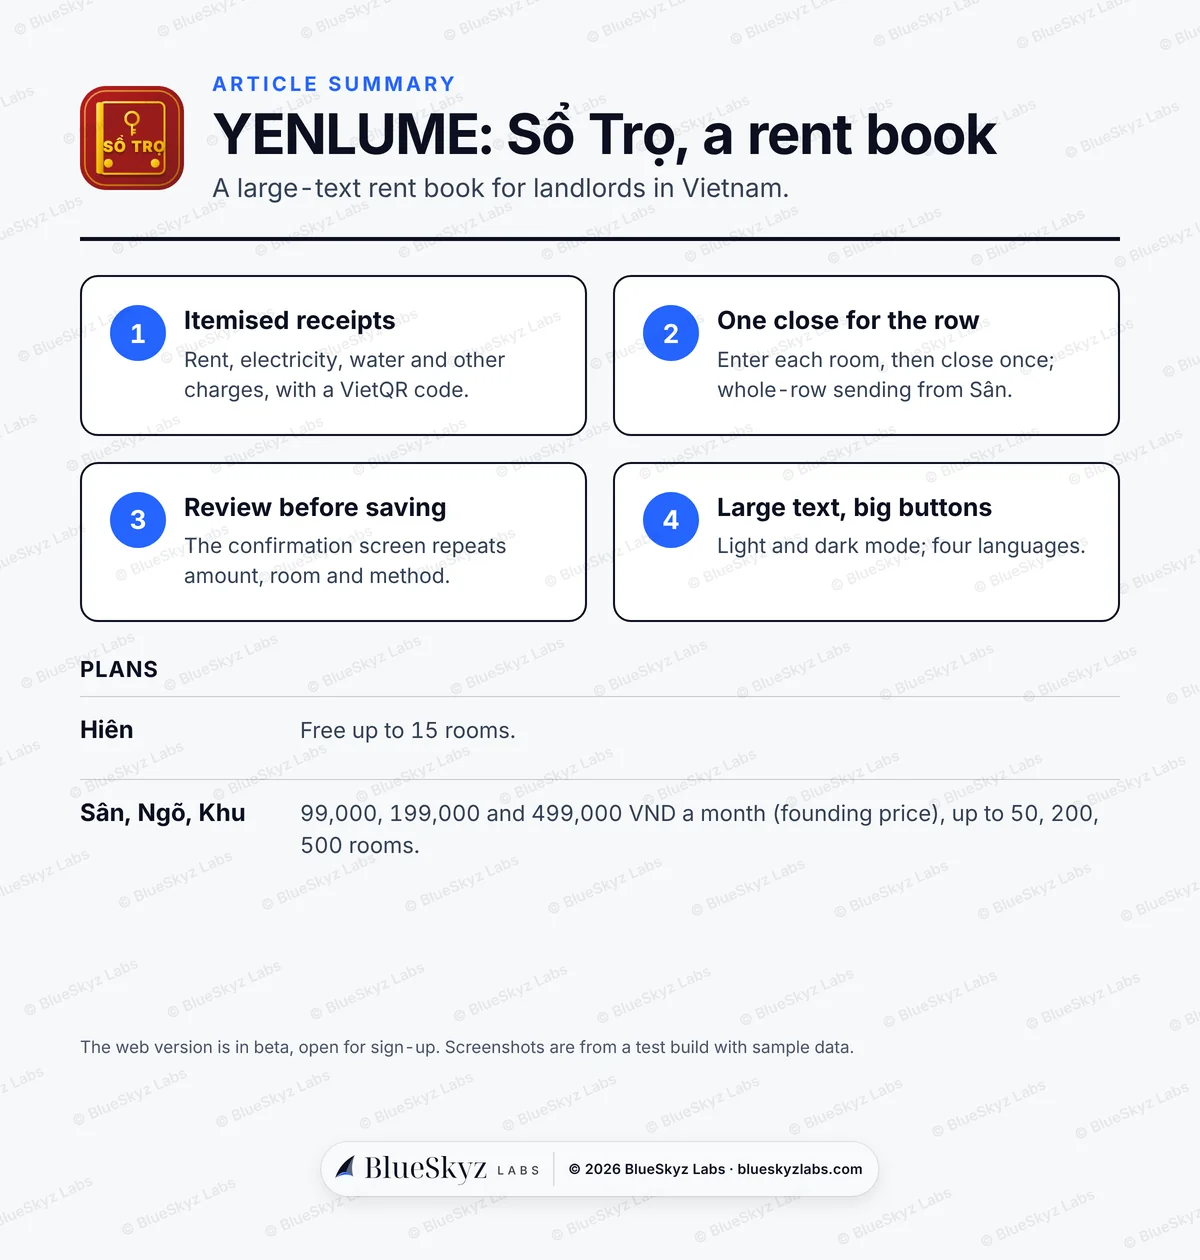
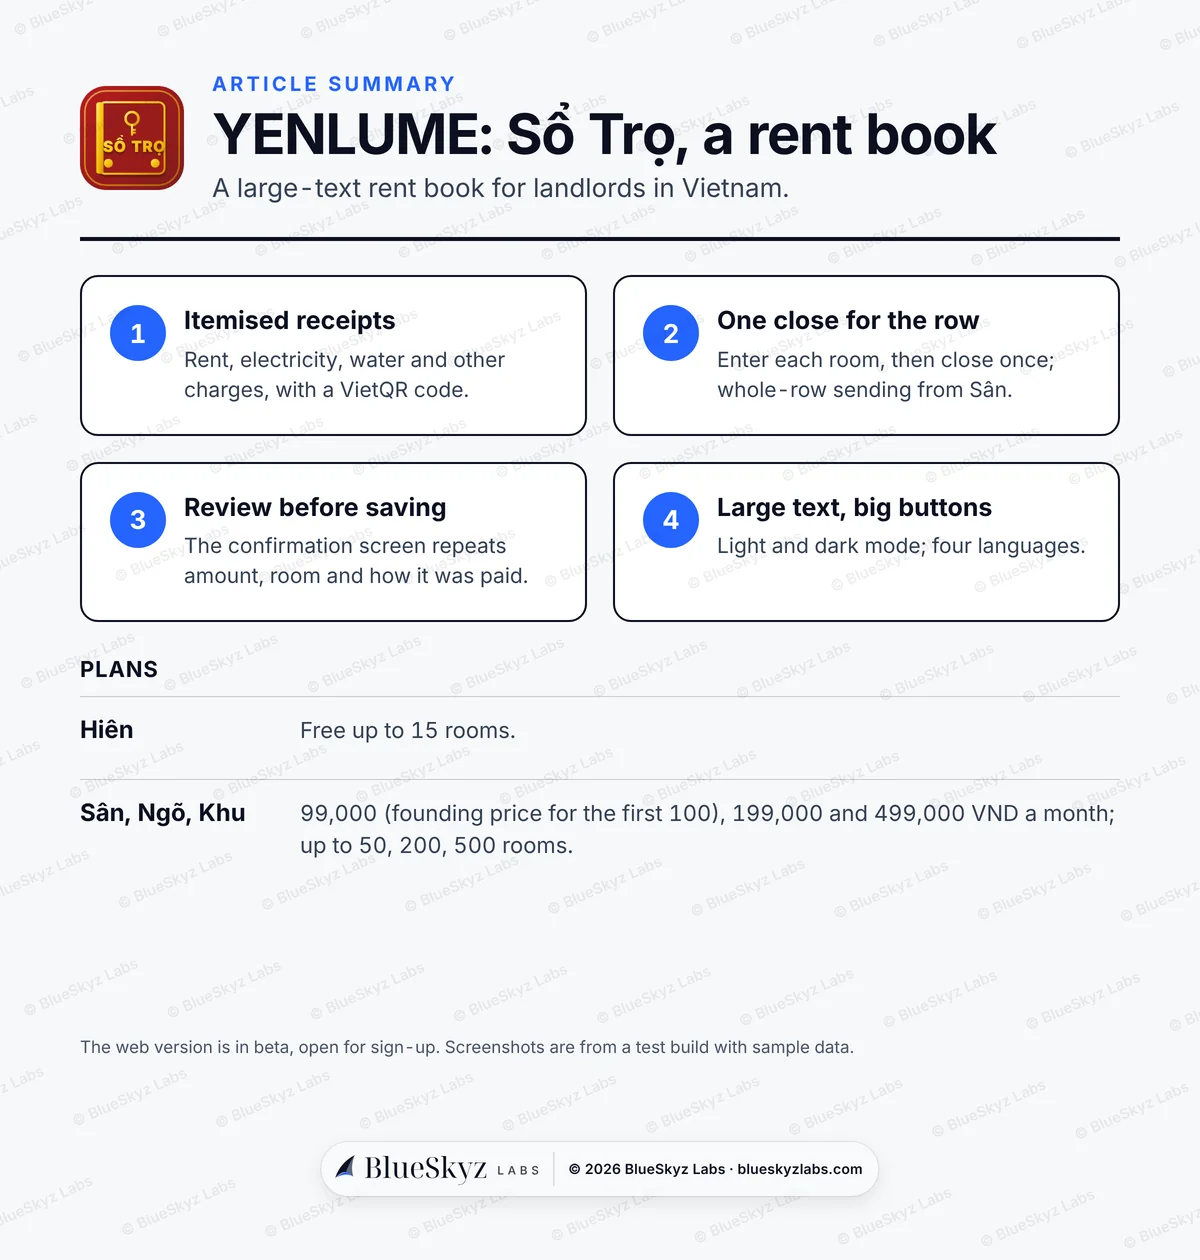
fix(content): founding price is Sân only (first 100, list 149k); drop video line; en/vi parity
Addresses copy review gtm/07 must-fix 1-3 and nits 4-7.

Claude-Session: https://claude.ai/code/session_01DLzXyRDgZUGGaX11hg71Fk

Changed region(s): [[0.2467, 0.619, 0.925, 0.681], [0.3083, 0.4333, 0.4317, 0.4643]]

diff --git a/src/content/journal/yenlume-so-tro-cho-chu-nha-tro.vi.md b/src/content/journal/yenlume-so-tro-cho-chu-nha-tro.vi.md
@@ -20,7 +20,7 @@ infographic:
 draft: false
 ---
 
-YENLUME (đọc là _yên-lum_) là sổ ghi tiền trọ của BlueSkyz Labs, làm cho chủ nhà trọ ở Việt Nam. Bài này kể sản phẩm ra đời để giải quyết việc gì, hiện làm được gì và có những gói nào.
+YENLUME (đọc là _yen-loom_) là sổ ghi tiền trọ của BlueSkyz Labs, làm cho chủ nhà trọ ở Việt Nam. Bài này kể sản phẩm ra đời để giải quyết việc gì, hiện làm được gì và có những gói nào.
 
 ## Cuối tháng ở một dãy trọ
 
@@ -33,23 +33,23 @@ YENLUME được làm cho những người như vậy, với một nguyên tắc
 - **Phiếu thu ghi từng khoản.** Tiền phòng, điện, nước và các khoản khác nằm trên từng dòng, số điện nước có đơn vị đo. Người thuê biết mình trả gì.
 - **Mã VietQR và Zalo.** Phiếu có mã chuyển khoản VietQR và gửi được qua Zalo.
 - **Chốt sổ cả dãy.** Nhập số từng phòng rồi chốt một lượt. Gửi phiếu cả dãy có từ gói Sân; gói Hiên gửi từng phòng.
-- **Xem lại trước khi lưu.** Bước xác nhận cuối nhắc lại số tiền, phòng và cách thu.
+- **Xem lại trước khi lưu.** Bước xác nhận cuối nhắc lại số tiền, phòng và cách thanh toán (tiền mặt hay chuyển khoản).
 - **Sổ đã chốt giữ nguyên.** Muốn điều chỉnh thì ghi thành một dòng riêng, hai bên cùng thấy.
 - **Chữ to, nút lớn.** Giao diện có chế độ sáng và tối, dùng được bằng tiếng Việt, English, 简体中文 và 繁體中文.
 
 ## Các gói
 
-| Gói  | Số phòng | Giá                           |
-| ---- | -------- | ----------------------------- |
-| Hiên | đến 15   | miễn phí                      |
-| Sân  | đến 50   | 99.000đ/tháng (giá sáng lập)  |
-| Ngõ  | đến 200  | 199.000đ/tháng (giá sáng lập) |
-| Khu  | đến 500  | 499.000đ/tháng (giá sáng lập) |
+| Gói  | Số phòng | Giá                                                 |
+| ---- | -------- | --------------------------------------------------- |
+| Hiên | đến 15   | miễn phí                                            |
+| Sân  | đến 50   | 99.000đ/tháng (giá sáng lập; giá niêm yết 149.000đ) |
+| Ngõ  | đến 200  | 199.000đ/tháng                                      |
+| Khu  | đến 500  | 499.000đ/tháng                                      |
 
-Khách mua trong giai đoạn sáng lập được giữ giá này. Chưa có quảng cáo trong sản phẩm.
+Giá sáng lập của gói Sân dành cho 100 khách trả tiền đầu tiên và được giữ nguyên. Hiện sản phẩm không có quảng cáo.
 
 ## Hiện trạng
 
 Bản web đang ở giai đoạn beta và mở đăng ký cho chủ trọ mới. Ứng dụng Android và iOS đang phát triển, chưa có trên cửa hàng ứng dụng. Ảnh màn hình chụp từ bản chạy thử, dùng dữ liệu mẫu.
 
-Xem thêm ảnh màn hình và video ngắn tại [trang Sổ Trọ](/vi/products/sotro/).
+Xem thêm ảnh màn hình tại [trang Sổ Trọ](/vi/products/sotro/).

diff --git a/src/content/journal/yenlume-so-tro-cho-chu-nha-tro.en.md b/src/content/journal/yenlume-so-tro-cho-chu-nha-tro.en.md
@@ -33,23 +33,23 @@ YENLUME is made for people like her, with one rule: if an older person cannot us
 - **Itemised receipts.** Rent, electricity, water and other charges each have their own line, and meter readings carry their units. The tenant sees what they are paying for.
 - **VietQR and Zalo.** The receipt carries a VietQR transfer code and can be sent through Zalo.
 - **One close for the whole row.** Enter each room's readings, then close the month in one go. Sending receipts for the whole row starts at the Sân plan; the Hiên plan sends room by room.
-- **Review before saving.** The final confirmation step repeats the amount, the room and the way it was collected.
+- **Review before saving.** The final confirmation step repeats the amount, the room and how it was paid (cash or transfer).
 - **Closed books stay closed.** A correction goes in as a separate line that both sides can see.
 - **Large text, big buttons.** There is a light and a dark mode, and the interface works in Vietnamese, English, 简体中文 and 繁體中文.
 
 ## Plans
 
-| Plan | Rooms     | Price                              |
-| ---- | --------- | ---------------------------------- |
-| Hiên | up to 15  | free                               |
-| Sân  | up to 50  | 99,000 VND/month (founding price)  |
-| Ngõ  | up to 200 | 199,000 VND/month (founding price) |
-| Khu  | up to 500 | 499,000 VND/month (founding price) |
+| Plan | Rooms     | Price                                                     |
+| ---- | --------- | --------------------------------------------------------- |
+| Hiên | up to 15  | free                                                      |
+| Sân  | up to 50  | 99,000 VND/month (founding price; list price 149,000 VND) |
+| Ngõ  | up to 200 | 199,000 VND/month                                         |
+| Khu  | up to 500 | 499,000 VND/month                                         |
 
-Customers who buy during the founding period keep this price. There are no ads in the product.
+The Sân founding price is for the first 100 paying customers, who keep it. The product has no ads today.
 
 ## Where it stands
 
 The web version is in beta and open for new landlords to sign up. The Android and iOS apps are in development and are not in the app stores yet. The screenshots come from a test build with sample data.
 
-See more screenshots and a short video on the [Sổ Trọ page](/en/products/sotro/).
+See more screenshots on the [Sổ Trọ page](/en/products/sotro/).

diff --git a/src/content/journal/mau-phieu-thu-tien-phong-tro.en.md b/src/content/journal/mau-phieu-thu-tien-phong-tro.en.md
@@ -47,10 +47,10 @@ The electricity and water price charged to a tenant follows the tenancy agreemen
 
 ## How to send it
 
-Send it through Zalo with a transfer code so the tenant can pay straight away, then note the date you received the money. A closed receipt should not be edited quietly. If something changes, add a correction line that both sides can see.
+Send it through Zalo with a payment QR code so the tenant can pay straight away, then note the date you received the money. A closed receipt should not be edited quietly. If something changes, add a correction line that both sides can see.
 
 ## When there are many rooms
 
-Writing every receipt by hand for a whole row drifts easily. YENLUME lets you enter each room's readings and close the month in one go, with receipts that itemise each charge and carry a VietQR code. The Hiên plan is free up to 15 rooms and sends room by room; sending receipts for the whole row starts at the Sân plan (99,000 VND/month, founding price). See the [Sổ Trọ page](/en/products/sotro/).
+Writing every receipt by hand for a whole row makes it easy for numbers to slip. YENLUME lets you enter each room's readings and close the month in one go, with receipts that itemise each charge and carry a VietQR code. The Hiên plan is free up to 15 rooms and sends room by room; sending receipts for the whole row starts at the Sân plan (99,000 VND/month, founding price for the first 100 paying customers). See the [Sổ Trọ page](/en/products/sotro/).
 
 This is a reference template, not legal or tax advice.

diff --git a/src/content/journal/mau-phieu-thu-tien-phong-tro.vi.md b/src/content/journal/mau-phieu-thu-tien-phong-tro.vi.md
@@ -51,6 +51,6 @@ Gửi qua Zalo kèm mã chuyển khoản để người thuê trả ngay, rồi 
 
 ## Khi có nhiều phòng
 
-Ra từng phiếu bằng tay cho cả dãy rất dễ lệch số. YENLUME cho nhập số từng phòng rồi chốt một lượt, phiếu ghi đủ từng khoản kèm mã VietQR. Gói Hiên miễn phí đến 15 phòng và gửi từng phòng; gửi phiếu cả dãy có từ gói Sân (99.000đ/tháng, giá sáng lập). Xem thêm ở [trang Sổ Trọ](/vi/products/sotro/).
+Ra từng phiếu bằng tay cho cả dãy rất dễ lệch số. YENLUME cho nhập số từng phòng rồi chốt một lượt, phiếu ghi đủ từng khoản kèm mã VietQR. Gói Hiên miễn phí đến 15 phòng và gửi từng phòng; gửi phiếu cả dãy có từ gói Sân (99.000đ/tháng, giá sáng lập cho 100 khách trả tiền đầu tiên). Xem thêm ở [trang Sổ Trọ](/vi/products/sotro/).
 
 Đây là mẫu tham khảo, không phải tư vấn pháp lý hay thuế.
